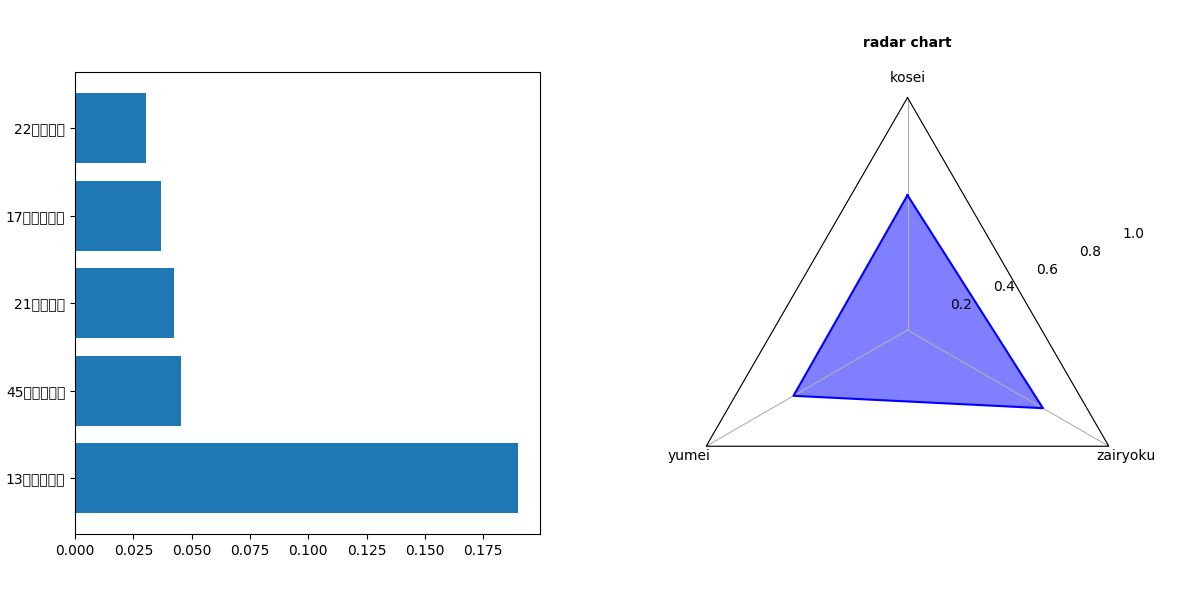
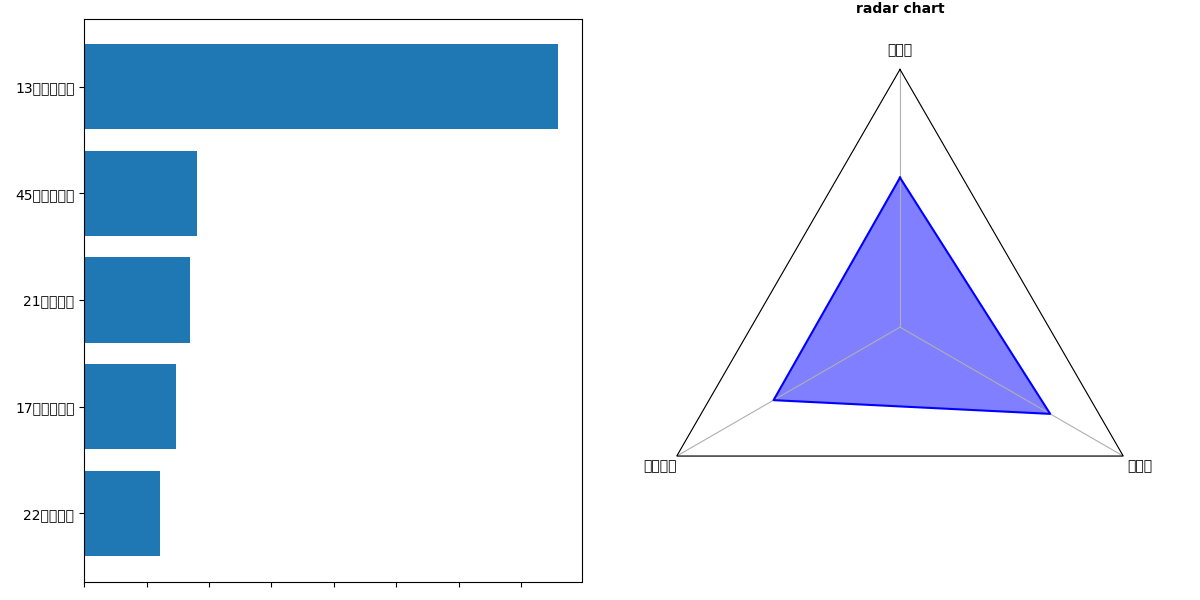
グラフ表示の設定を変更

diff --git a/sample.py b/sample.py
@@ -2,90 +2,12 @@
 # -*- encoding:utf-8 -*-
 
 import json
-
 import create_graph
 
-test_data = {'date': '20181016_210221',
-			 'list': [0.01181747205555439, 0.00585113326087594, 0.009142509661614895, 0.012987835332751274,
-					  0.025216354057192802, 0.014170428737998009, 0.003623287659138441, 0.010311531834304333,
-					  0.0166928693652153, 0.015222523361444473, 0.01809479109942913, 0.023610422387719154,
-					  0.1897793710231781, 0.017791256308555603, 0.00559137063100934, 0.011362525634467602,
-					  0.03674745187163353, 0.017355015501379967, 0.008425896987318993, 0.014723686501383781,
-					  0.042360611259937286, 0.030384384095668793, 0.010653607547283173, 0.006072123069316149,
-					  0.007502072956413031, 0.015909379348158836, 0.004371880553662777, 0.020194251090288162,
-					  0.005607947241514921, 0.00888028834015131, 0.012205892242491245, 0.029918953776359558,
-					  0.0024726518895477057, 0.019348012283444405, 0.0032850513234734535, 0.0035030068829655647,
-					  0.028869453817605972, 0.017301183193922043, 0.01380877010524273, 0.00812555756419897,
-					  0.007828429341316223, 0.0025349927600473166, 0.01325348298996687, 0.0018086005002260208,
-					  0.04525774344801903, 0.030202716588974, 0.027985092252492905, 0.006874443031847477,
-					  0.009668845683336258, 0.011128797195851803, 0.005976908374577761, 0.013587786816060543,
-					  0.003229561261832714, 0.006666489876806736, 0.010049774311482906, 0.005951963365077972,
-					  0.010056080296635628, 0.008776976726949215, 0.01986856944859028],
-			 'rank': [{'no': '13デザイナー', 'accuracy': 0.1897793710231781},
-					  {'no': '45トヨタ社員', 'accuracy': 0.04525774344801903},
-					  {'no': '21臨床検査', 'accuracy': 0.042360611259937286},
-					  {'no': '17デザイナー', 'accuracy': 0.03674745187163353},
-					  {'no': '22臨床検査', 'accuracy': 0.030384384095668793},
-					  {'no': '46アイシン社員', 'accuracy': 0.030202716588974},
-					  {'no': '32看護師', 'accuracy': 0.029918953776359558},
-					  {'no': '37臨床検査技師', 'accuracy': 0.028869453817605972},
-					  {'no': '47アイシン社員', 'accuracy': 0.027985092252492905},
-					  {'no': '5美容師', 'accuracy': 0.025216354057192802},
-					  {'no': '12ケーキ屋', 'accuracy': 0.023610422387719154},
-					  {'no': '28臨床検査技師', 'accuracy': 0.020194251090288162},
-					  {'no': '59ケーキ屋', 'accuracy': 0.01986856944859028},
-					  {'no': '34放射線技師', 'accuracy': 0.019348012283444405},
-					  {'no': '11デンソー社員', 'accuracy': 0.01809479109942913},
-					  {'no': '14テニスプレイヤ', 'accuracy': 0.017791256308555603},
-					  {'no': '18医師', 'accuracy': 0.017355015501379967},
-					  {'no': '38看護師', 'accuracy': 0.017301183193922043},
-					  {'no': '9演劇(役者)', 'accuracy': 0.0166928693652153},
-					  {'no': '26放射線技師', 'accuracy': 0.015909379348158836},
-					  {'no': '10演劇(役者)', 'accuracy': 0.015222523361444473},
-					  {'no': '20看護師', 'accuracy': 0.014723686501383781},
-					  {'no': '6演劇(脚本)', 'accuracy': 0.014170428737998009},
-					  {'no': '39看護師', 'accuracy': 0.01380877010524273},
-					  {'no': '52プロサッカー選手', 'accuracy': 0.013587786816060543},
-					  {'no': '43社長', 'accuracy': 0.01325348298996687},
-					  {'no': '4アナウンサー', 'accuracy': 0.012987835332751274},
-					  {'no': '31薬剤師', 'accuracy': 0.012205892242491245},
-					  {'no': '1デンソー社員', 'accuracy': 0.01181747205555439},
-					  {'no': '16ケーキ屋', 'accuracy': 0.011362525634467602},
-					  {'no': '50プロ野球選手', 'accuracy': 0.011128797195851803},
-					  {'no': '23医師', 'accuracy': 0.010653607547283173},
-					  {'no': '8演劇(役者)', 'accuracy': 0.010311531834304333},
-					  {'no': '57トヨタ社員', 'accuracy': 0.010056080296635628},
-					  {'no': '55ユーチューバー', 'accuracy': 0.010049774311482906},
-					  {'no': '49プロ野球選手', 'accuracy': 0.009668845683336258},
-					  {'no': '3高校教師', 'accuracy': 0.009142509661614895},
-					  {'no': '30臨床検査技師', 'accuracy': 0.00888028834015131},
-					  {'no': '58ゲームクリエータ', 'accuracy': 0.008776976726949215},
-					  {'no': '19デンソー社員', 'accuracy': 0.008425896987318993},
-					  {'no': '40看護師', 'accuracy': 0.00812555756419897},
-					  {'no': '41看護師', 'accuracy': 0.007828429341316223},
-					  {'no': '25看護師', 'accuracy': 0.007502072956413031},
-					  {'no': '48政治家', 'accuracy': 0.006874443031847477},
-					  {'no': '54プロサッカー選手', 'accuracy': 0.006666489876806736},
-					  {'no': '24看護師', 'accuracy': 0.006072123069316149},
-					  {'no': '51プロ野球選手', 'accuracy': 0.005976908374577761},
-					  {'no': '56ユーチューバー', 'accuracy': 0.005951963365077972},
-					  {'no': '2小学校教師', 'accuracy': 0.00585113326087594},
-					  {'no': '29放射線技師', 'accuracy': 0.005607947241514921},
-					  {'no': '15テニスプレイヤ', 'accuracy': 0.00559137063100934},
-					  {'no': '27薬剤師', 'accuracy': 0.004371880553662777},
-					  {'no': '7演劇(役者)', 'accuracy': 0.003623287659138441},
-					  {'no': '36放射線技師', 'accuracy': 0.0035030068829655647},
-					  {'no': '35薬剤師', 'accuracy': 0.0032850513234734535},
-					  {'no': '53プロサッカー選手', 'accuracy': 0.003229561261832714},
-					  {'no': '42臨床検査技師', 'accuracy': 0.0025349927600473166},
-					  {'no': '33放射線技師', 'accuracy': 0.0024726518895477057},
-					  {'no': '44警察官', 'accuracy': 0.0018086005002260208}], 'top': '13デザイナー',
-			 'dream': [0.5799465119838715, 0.566234556119889, 0.672523644566536], 'rect': [0, 0, 1.0, 64]}
 
-with open('test_data.txt', 'w') as f:
-	f.write(json.dumps(test_data))
-
+# 推論部からresultを受け取る場合は必要なし
 with open('test_data.txt', 'r') as f:
 	test_data = json.load(f)
+######################################
 
 create_graph.create_graph(test_data)

diff --git a/create_graph.py b/create_graph.py
@@ -12,13 +12,12 @@ from matplotlib.projections.polar import PolarAxes
 from matplotlib.projections import register_projection
 from matplotlib import rcParams
 
+rcParams['font.family'] = 'IPAexGothic'
+rcParams.update({'figure.autolayout': True})
+
 BAR_IMG = 'bar.png'
 RADAR_IMG = 'radar.png'
 GRAPH_SIZE = (6, 6)
-
-# rcParams['font.family'] = 'ipagp.tttf'
-
-# fp = FontProperties(fname=r'/Users/iwasa/font/IPAfont00303/ipag.ttf')
 
 
 def radar_factory(num_vars, frame='circle'):
@@ -130,8 +129,11 @@ def create_bar(rank_data):
 	plt.yticks(x_tmp, x)
 	# return axes
 
-	# ax = create_bar()
-	# axes = create_bar()
+	# 縦軸ラベルを反転、上位が上になるようにする
+	ax_bar.invert_yaxis()
+
+	# 横軸ラベルを非表示
+	ax_bar.axes.xaxis.set_ticklabels([])
 
 	# plt.show()
 	plt.savefig(BAR_IMG)
@@ -148,7 +150,7 @@ def create_radarchart(dream_data):
 	theta = radar_factory(N, frame='polygon')
 	Title = 'radar chart'
 	#spoke = 'abc'
-	spoke_labels = ['kosei', 'yumei', 'zairyoku']
+	spoke_labels = ['こせい', 'ゆうめい', 'おかね']
 	color = 'b'
 
 	fig, ax = plt.subplots(figsize=GRAPH_SIZE, subplot_kw=dict(projection='radar'))
@@ -157,7 +159,7 @@ def create_radarchart(dream_data):
 	#  chartの範囲
 	ax.set_ylim(0, 1)
 	# Grid線の位置の指定
-	# fig, ax.set_rgrids([0.2, 0.4, 0.6, 0.8])
+	fig, ax.set_rgrids([])
 
 	fig, ax.set_title(Title, weight='bold', size='medium', position=(0.5, 1.1),
 	horizontalalignment='center', verticalalignment='center')
